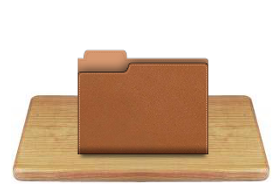
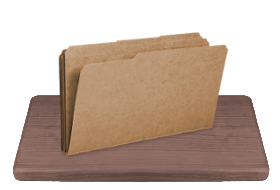
I think this makes eCook look good...

diff --git a/Code/eCook/src/gui/MainMenuContent.java b/Code/eCook/src/gui/MainMenuContent.java
@@ -168,7 +168,7 @@ public class MainMenuContent {
 		// bigBox.setMaxSize(width, height+100);
 		bigBox.setPrefSize(width, height);
 		bigBox.setMaxSize(width, height);
-		bigBox.setStyle("-fx-background-size: cover; -fx-background-position: center center; -fx-background-image: url('file:../Resources/Chopping_Bak.jpg');");
+		bigBox.setStyle("-fx-background-size: cover; -fx-background-position: center center; -fx-background-image: url('file:../Resources/background.png');");
 		// bigBox.setStyle("-fx-background-size: cover; -fx-background-position: center center; -fx-background-color: lightGrey;");
 		
 		//Sets size and location parameters for the midBox and bottomBox
@@ -181,7 +181,7 @@ public class MainMenuContent {
 		Button loadExtBtn = new Button("");
 		Button generateListBtn = new Button("");
 		Button ingredientsPickBtn = new Button("");
-		Button recipesBtn= new Button("Recipes");
+		Button recipesBtn= new Button("");
 		
 		//Defining the CSS Identifiers
 		loadExtBtn.setId("loadExtBtn");
